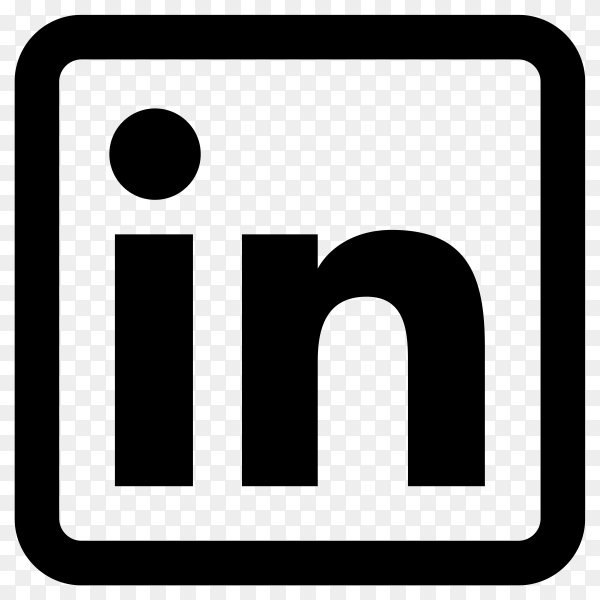
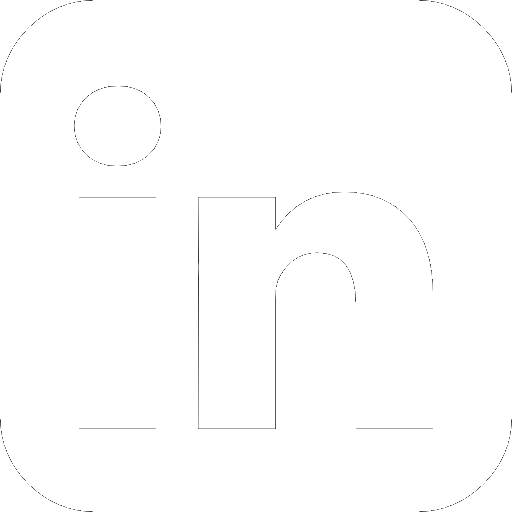
Added work experiences and projects sections, and footer. Content is still incomplete.

diff --git a/index.html b/index.html
@@ -16,7 +16,7 @@
     <body>
         <section id="navbar">
             <div class="section-container">
-                <p>syafaat_saat</p>
+                <h1 class="logo">syafaat_saat</h1>
             </div>
         </section>
 
@@ -26,25 +26,24 @@
                     <div class="picture">
                         <img src="./assets/images/profile_pic.jpg" alt="my profile picture" height="300" class="profile-pic">
                     </div>
-                    <div class="box name">
+                    <div class="box">
                         <p class="label">Name</p>
                         <p class="content">Muhammad Nur Syafaat Bin Mohamed Saat</p>
                     </div>
-                    <div class="box role">
+                    <div class="box">
                         <p class="label">Role</p>
                         <p class="content">Programmer</p>
                     </div>
-                    <div class="box description">
+                    <div class="box occupy-grid-2">
                         <p class="label">Description</p>
                         <p class="content">Recently, he graduated with a degree in Computer Science and Game Design. He enjoy solving problems that gets his brain working.
-                        <br>While he is actively job hunting currently, he is learning new skills. This website is a product of his self-learning web development journey.<br>Outside of programming, he loves to listen to music, watching movies and baking pastries.</p>
+                        <br>While he is actively job hunting currently, he is learning new skills. This website is a product of his self-learning web development journey.<br>Outside of coding, he loves to listen to music, watching movies and baking pastries.</p>
                     </div>
-                    <div class="box languages">
+                    <div class="box">
                         <p class="label">Languages</p>
                         <div class="content skill-items">
                             <p>C++</p>
                             <p>C#</p>
-                            <p>C</p>
                             <p>Python</p>
                             <p>HTML5</p>
                             <p>CSS</p>
@@ -52,7 +51,7 @@
                             <p>SQL</p>
                         </div>
                     </div>
-                    <div class="box devtools">
+                    <div class="box">
                         <p class="label">Dev Tools</p>
                         <div class="content skill-items">
                             <p>Unity</p>
@@ -64,7 +63,7 @@
                             <p>CityEngine</p>
                         </div>
                     </div>
-                    <div class="box skills">
+                    <div class="box occupy-grid-2">
                         <p class="label">Skills</p>
                         <div class="content skill-items">
                             <p>Data Structures & Algorithms</p>
@@ -82,7 +81,59 @@
 
         <section id="workexp">
             <div class="section-container">
-                
+                <h1 class="logo">work_experiences</h1>
+                <div class="workexp-grid">
+                    <p class="company">Centre of Immersification</p>
+                    <p class="duration">January 2022 - July 2022</p>
+                    <p class="occupy-grid-2 role">Software Engineer Intern</p>
+                    <p class="occupy-grid-2 description">Designed and developed interactive features for a VR prototype. Assisted in creating a 3D virtual environment using Python and 3D modeling. Revamped the menu system (UI and navigation).
+                    Created data recording system and reflected collected data in an observation mode to monitor user’s performance.</p>
+                </div>
+                <hr>
+                <div class="workexp-grid">
+                    <p class="company">Ubisoft Singapore</p>
+                    <p class="duration">May 2015 - August 2015</p>
+                    <p class="occupy-grid-2 role">Quality Assurance Intern</p>
+                    <p class="occupy-grid-2 description">Testing new features for discrepancies and performance issues.
+                    Authored documentation for new features with details on known issues and performance data.</p>
+                </div>
+            </div>
+        </section>
+
+        <section id="projects">
+            <div class="section-container">
+                <h1 class="logo">projects</h1>
+                <div class="workexp-grid">
+                    <p class="company">Wonder Cells</p>
+                    <p class="duration">2020 - 2021</p>
+                    <p class="occupy-grid-2 description">You play as a unique leader cell, which is tasked to fix broken areas in the human body that has been infected by a virus. With the help of different blood cells, you make your way through the organs and fight against the bacteria.</p>
+                    <div class="occupy-grid-2 skill-items">
+                        <p>C++</p>
+                        <p>Custom Engine</p>
+                        <p>GitHub</p>
+                    </div>
+                </div>
+                <hr>
+                <div class="workexp-grid">
+                    <p class="company">Burnt Paws</p>
+                    <p class="duration">2020 - 2021</p>
+                    <p class="occupy-grid-2 description">You play as a cat, who excels in cooking. As a cat, their natural instinct makes them a good hunter too. On a mission to be the best cat chef, you find yourself on an inhabited island full of potential ingredients for delicious dishes. Cook and hunt your way to the top of the food chain.</p>
+                    <div class="occupy-grid-2 skill-items">
+                        <p>C#</p>
+                        <p>Unity</p>
+                        <p>GitHub</p>
+                    </div>
+                </div>
+            </div>
+        </section>
+
+        <section id="footer">
+            <div class="section-container footer-container">
+                <div class="socials-container">
+                    <a href="https://www.linkedin.com/in/muhd-nur-syafaat-bin-mohd-saat/"><img src="./assets/images/linkedin.png" alt="linkedin" height="30px"></a>
+                    <a href="https://github.com/syafaatsaat"><img src="./assets/images/github.png" alt="github" height="30px"></a>
+                </div>
+                <p class="copyright">© 2024 Syafaat Saat<br>DESIGNED AND DEVELOPED BY <span style="font-style: italic; font-weight: bold;">SYAFAAT SAAT</span>.</p>
             </div>
         </section>
         

diff --git a/css/style.css b/css/style.css
@@ -8,17 +8,17 @@ p {
     font-weight: bold;
 }
 
-.nav-container, .aboutme-container {
-    display: flex;
-    justify-content: center;
-    margin: 40px 80px;
+.logo {
+    font-size: 48px;
+    font-family: 'Archivo Black', sans-serif;
+    color: #183D3D;
     padding: 0;
+    margin-bottom: 0;
 }
 
-.nav-container > * {
-    color: #525CEB;
-    font-size: 32px;
-    font-weight: bold;
+.section-container {
+    margin: 40px 80px;
+    padding: 0;
 }
 
 .profile-pic {
@@ -66,7 +66,7 @@ p {
     margin: 0;
 }
 
-.description, .skills {
+.occupy-grid-2 {
     grid-column: 1 / 3;
 }
 
@@ -79,10 +79,72 @@ p {
 }
 
 .skill-items > * {
-    background-color: #BFCFE7;
+    background-color: #93B1A6;
     padding: 8px 10px;
     border-radius: 15px;
     min-width: 50px;
     text-align: center;
     margin: 0;
+}
+
+.workexp-grid {
+    display: grid;
+    width: 100%;
+    grid-template-rows: auto auto auto;
+    grid-template-columns: 50% 50%;
+    padding: 20px 0;
+}
+
+.company {
+    font-size: 24px;
+}
+
+.duration {
+    text-align: right;
+    font-size: 20px;
+    font-style: italic;
+}
+
+.company, .duration {
+    margin-bottom: 0;
+}
+
+.role {
+    font-style: italic;
+    margin: 0;
+}
+
+.description {
+    margin-top: 10px;
+}
+
+#footer {
+    width: 100%;
+    height: auto;
+    background-color: #183D3D;
+}
+
+.footer-container {
+    display: flex;
+    justify-content: space-between;
+    align-items: center;
+    flex-direction: row;
+    margin-bottom: 0;
+    height: 100px;
+}
+
+.copyright {
+    text-align: right;
+    font-weight: normal;
+    color: white;
+    order: 1;
+    margin: 0;
+}
+
+.socials-container {
+    display: flex;
+    justify-content: flex-start;
+    align-items: center;
+    flex-direction: row;
+    gap: 20px;
 }
